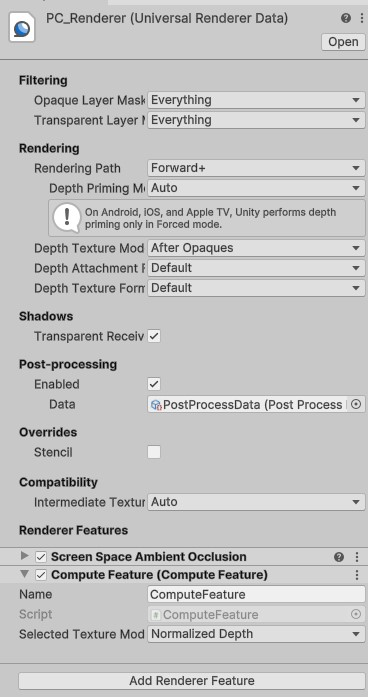
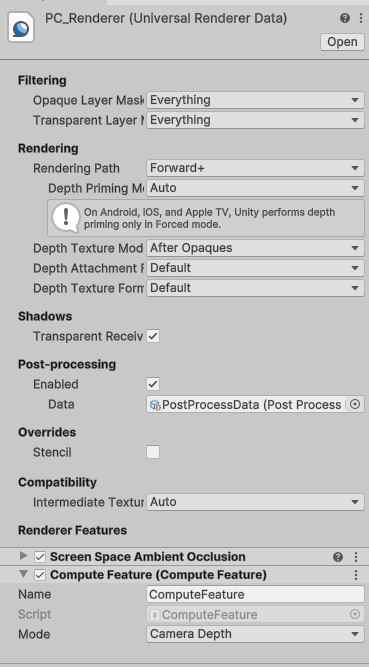
Changed texture mode display name

Changed region(s): [[0.0, 0.0, 1.0, 1.0], [0.3886, 0.5397, 1.0, 0.6897]]

diff --git a/Runtime/RenderFeatures/ComputeFeature.cs b/Runtime/RenderFeatures/ComputeFeature.cs
@@ -12,7 +12,7 @@ namespace RenderFeatures
             NormalizedDepth
         }
 
-        public TextureMode SelectedTextureMode;
+        public TextureMode Mode;
         private LinearDepthPass _linearDepthPass;
 
         public RenderTexture RenderTexture
@@ -27,7 +27,7 @@ namespace RenderFeatures
 
         public override void Create()
         {
-            _linearDepthPass = new LinearDepthPass(SelectedTextureMode);
+            _linearDepthPass = new LinearDepthPass(Mode);
         }
 
         public override void SetupRenderPasses(ScriptableRenderer renderer, in RenderingData renderingData)
